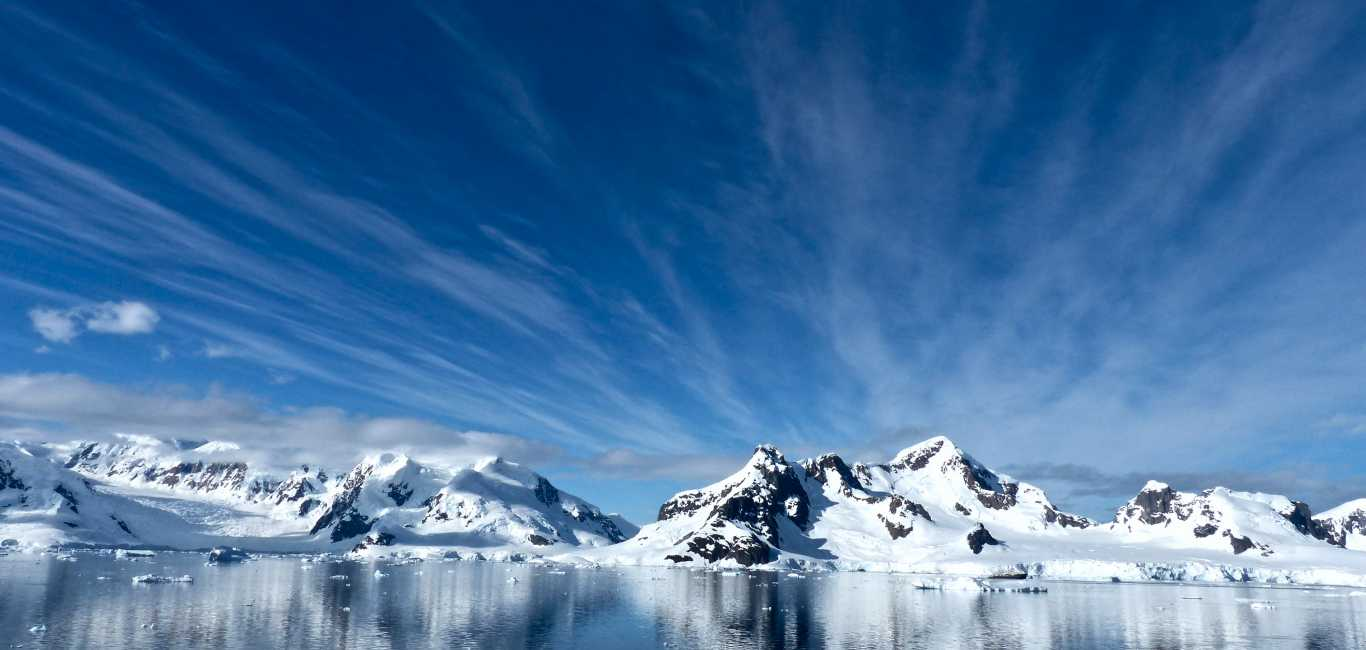
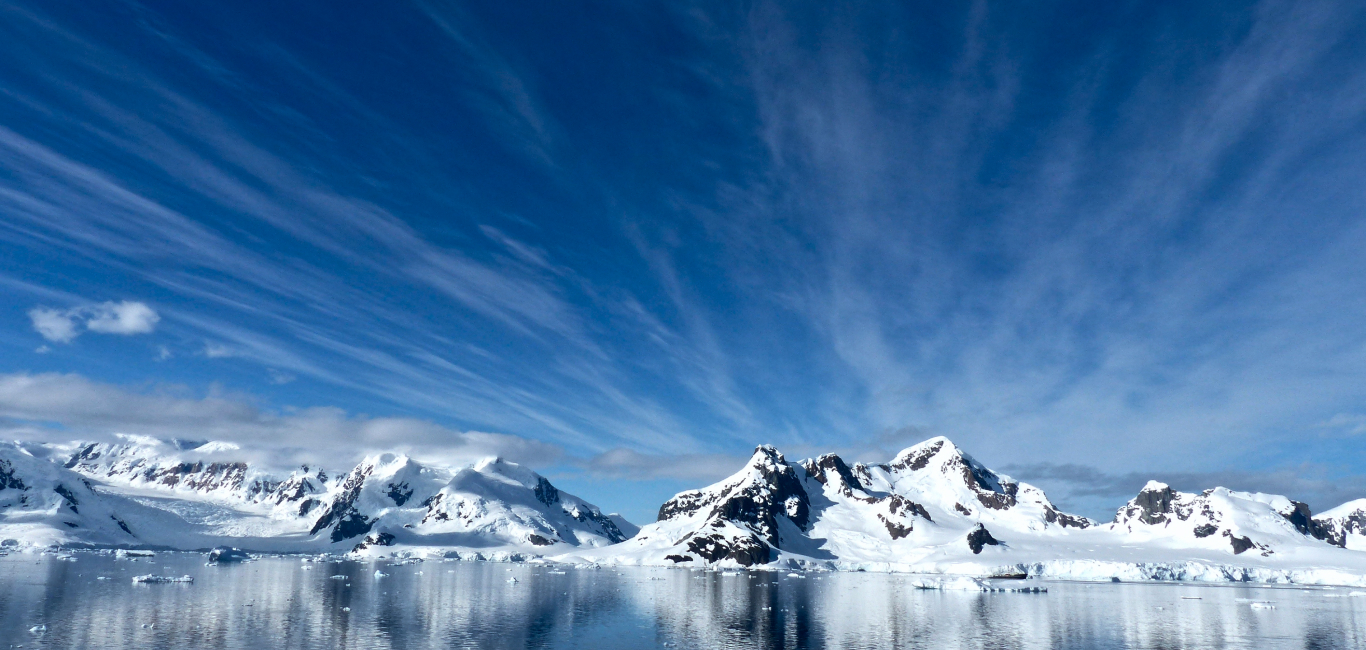
Поправил картинку в баннере

diff --git a/css/style.min.css b/css/style.min.css
@@ -1,4 +1,4 @@
 @font-face{font-family:"Montserrat";font-style:normal;font-weight:400;src:url(../fonts/montserrat-regular.woff2) format("woff2"),url(../fonts/montserrat-regular.woff) format("woff");font-display:swap}@font-face{font-family:"Montserrat";font-style:normal;font-weight:500;src:url(../fonts/montserrat-500.woff2) format("woff2"),url(../fonts/montserrat-500.woff) format("woff");font-display:swap}@font-face{font-family:"Montserrat";font-style:normal;font-weight:600;src:url(../fonts/montserrat-600.woff2) format("woff2"),url(../fonts/montserrat-600.woff) format("woff");font-display:swap}@font-face{font-family:"Montserrat";font-style:normal;font-weight:700;src:url(../fonts/montserrat-700.woff2) format("woff2"),url(../fonts/montserrat-700.woff) format("woff");font-display:swap}
 /*! normalize.css v8.0.1 | MIT License | github.com/necolas/normalize.css */
-html{line-height:1.15;-webkit-text-size-adjust:100%}body{margin:0}details,main{display:block}h1{font-size:2em;margin:.67em 0}hr{-webkit-box-sizing:content-box;box-sizing:content-box;height:0;overflow:visible}code,kbd,pre,samp{font-family:monospace,monospace;font-size:1em}a{background-color:transparent}abbr[title]{border-bottom:none;-webkit-text-decoration:underline dotted;text-decoration:underline dotted}b,strong{font-weight:bolder}small{font-size:80%}sub,sup{font-size:75%;line-height:0;position:relative;vertical-align:baseline}sub{bottom:-.25em}sup{top:-.5em}img{border-style:none}button,input,optgroup,select,textarea{font-family:inherit;font-size:100%;line-height:1.15;margin:0}button,input{overflow:visible}button,select{text-transform:none}[type=button],[type=reset],[type=submit],button{-webkit-appearance:button}[type=button]::-moz-focus-inner,[type=reset]::-moz-focus-inner,[type=submit]::-moz-focus-inner,button::-moz-focus-inner{border-style:none;padding:0}[type=button]:-moz-focusring,[type=reset]:-moz-focusring,[type=submit]:-moz-focusring,button:-moz-focusring{outline:1px dotted ButtonText}fieldset{padding:.35em .75em .625em}legend{color:inherit;display:table;max-width:100%;white-space:normal}progress{vertical-align:baseline}textarea{overflow:auto}[type=checkbox],[type=radio],legend{-webkit-box-sizing:border-box;box-sizing:border-box;padding:0}[type=number]::-webkit-inner-spin-button,[type=number]::-webkit-outer-spin-button{height:auto}[type=search]{-webkit-appearance:textfield;outline-offset:-2px}[type=search]::-webkit-search-decoration{-webkit-appearance:none}::-webkit-file-upload-button{-webkit-appearance:button;font:inherit}summary{display:list-item}[hidden],template{display:none}*,::after,::before{-webkit-box-sizing:border-box;box-sizing:border-box}.logo{display:block;height:38px;width:70px}.logo:not(.active-link):hover{-webkit-transform:scale(1.2);transform:scale(1.2);-webkit-transform-origin:bottom left;transform-origin:bottom left}@media screen and (max-width:1023px){.logo{height:20px;width:38px}}@media screen and (max-width:767px){.logo{height:22px;width:42px}}.link{color:inherit;text-decoration:none}.link:not(.active-link):hover{cursor:pointer}.link:not(.active-link):focus,.link:not(.active-link):hover{text-decoration:underline}.focus:focus,.focus:hover{background-color:#f0e5a9}.sprite{position:relative}.sprite__svg{display:none}.footer__social-link a,.sprite__svg--lg{display:block}@media screen and (max-width:1023px){.sprite__svg{display:none}.sprite__svg--md{display:block}}@media screen and (max-width:767px){.sprite__svg{display:none}.sprite__svg--sm{display:block}}.sprite img{position:absolute;top:0}.container{max-width:100%;padding:0 7.5%;width:100%}@media screen and (max-width:1023px){.container{padding:0 45px}}@media screen and (max-width:767px){.container{padding:0 15px}}.cards{display:-webkit-box;display:-ms-flexbox;display:flex;-ms-flex-wrap:wrap;flex-wrap:wrap;-webkit-box-pack:center;-ms-flex-pack:center;justify-content:center;list-style:none;margin:0 -15px;padding:0}.cards__item{margin:0 15px 30px}.picture-container{background-color:#195288}.visually-hidden{border:0;clip:rect(0 0 0 0);clip:rect(0,0,0,0);height:1px;margin:-1px;overflow:hidden;padding:0;position:absolute;width:1px}.body{background-color:#f9fbfd;color:#011c40;display:-webkit-box;display:-ms-flexbox;display:flex;-webkit-box-orient:vertical;-webkit-box-direction:normal;-ms-flex-direction:column;flex-direction:column;font-family:"Montserrat",Arial,"Helvetica CY","Nimbus Sans L",sans-serif;height:100vh;min-width:320px}.body>*{-ms-flex-negative:0;flex-shrink:0}.section{margin-top:120px}.section h2{font-size:28px;font-weight:600;line-height:1.4;margin:-8px 0 50px;text-align:center}.section h3{font-size:18px;font-weight:500}@media screen and (max-width:1023px){.section{margin-top:100px}.section h2{font-size:26px}}@media screen and (max-width:767px){.section{margin-top:65px}.section h2{font-size:24px;margin-bottom:32px}}.header{-webkit-box-align:start;-ms-flex-align:start;align-items:flex-start;color:#f9fbfd;display:-webkit-box;display:-ms-flexbox;display:flex;left:0;padding-top:35px;position:absolute;top:0;width:100%;z-index:2}.header__logo{margin-right:auto}.header svg{fill:#f9fbfd}.header__links,.header__nav{margin:0;padding:0}.header__links{display:-webkit-box;display:-ms-flexbox;display:flex;-ms-flex-wrap:wrap;flex-wrap:wrap;font-size:16px;font-weight:500;-webkit-box-pack:center;-ms-flex-pack:center;justify-content:center;line-height:38px;list-style:none}.header__link{margin-left:33px}.header__button{background-color:transparent;border:0;cursor:pointer;display:none;padding:0}.header__button:hover{-webkit-transform:scale(1.2);transform:scale(1.2)}.header__button--open{height:14px;width:26px}.header__button--close{height:13px;width:13px}@media screen and (max-width:1023px){.header{padding-top:30px}.header__links{font-size:14px;line-height:20px}.header__link{margin-left:24px}}@media screen and (max-width:767px){.header{-webkit-box-align:center;-ms-flex-align:center;align-items:center;-ms-flex-wrap:wrap;flex-wrap:wrap;padding-top:20px}.header--no-js{position:static}.header--menu-visible{background-color:#f9fbfd;color:#011c40}.header__nav{display:none;margin-top:24px;min-width:100%;-webkit-box-ordinal-group:3;-ms-flex-order:2;order:2;padding-bottom:61px}.header--menu-visible .header__button--close,.header--menu-visible .header__nav,.header__button--open,.header__links{display:block}.header__links{font-size:18px}.header__link{margin:23px 0 0}.header--menu-visible svg{fill:#011c40}.header--menu-visible .header__button--open,.header--no-js .header__button{display:none}}.footer{-webkit-box-align:start;-ms-flex-align:start;align-items:flex-start;background-color:#011c40;color:#f9fbfd;display:-webkit-box;display:-ms-flexbox;display:flex;margin-top:auto;padding-bottom:50px;padding-top:50px}@media screen and (max-width:767px){.footer{display:block;padding-bottom:40px;padding-top:40px}}.footer svg{fill:#f9fbfd}.footer__links,.footer__social-links{-webkit-box-align:center;-ms-flex-align:center;align-items:center;display:-webkit-box;display:-ms-flexbox;display:flex;list-style:none;padding:0}.footer__social-links{margin:8px 0 0}.footer__links{-ms-flex-wrap:wrap;flex-wrap:wrap;font-size:16px;font-weight:500;line-height:1.5;margin:8px auto 0 7px}.footer__link,.footer__social-link{margin-left:33px}.footer__social-link{height:20px;width:20px}.footer__social-link--fb{width:11px}.footer__social-link--tw{height:16px}@media screen and (max-width:1023px){.footer__social-link{height:16px;width:16px}.footer__social-link--fb{width:9px}.footer__social-link--tw{height:13px}}.footer__social-link a:hover{-webkit-transform:scale(1.4);transform:scale(1.4)}@media screen and (max-width:1023px){.footer__links,.footer__social-links{margin-top:1px}.footer__links{font-size:12px;margin-left:2px}.footer__link,.footer__social-link{margin-left:23px}}@media screen and (max-width:767px){.footer__links{display:block;margin:26px 0 0}.footer__link{margin:14px 0 0}.footer__social-links{margin-top:25px}.footer__social-link{margin:0 23px 0 0}}.cruises{color:#f9fbfd;padding:283px 0;position:relative}@media screen and (max-width:767px){.cruises{padding:185px 0}}.cruises h1,.cruises p{margin:0 auto;max-width:1000px;width:84%}@media screen and (max-width:1023px){.cruises h1,.cruises p{min-width:678px}}@media screen and (max-width:767px){.cruises h1,.cruises p{min-width:290px}}.cruises h1{font-size:54px;font-weight:700;line-height:1.25;margin-top:-12px}@media screen and (max-width:1023px){.cruises h1{font-size:50px;margin-top:-15px}}@media screen and (max-width:767px){.cruises h1{font-size:36px;margin-top:-10px}}.cruises p{font-size:20px;line-height:1.4;margin-bottom:-7px;margin-top:8px}@media screen and (max-width:1023px){.cruises p{font-size:18px;margin-top:10px;margin-bottom:-10px}}@media screen and (max-width:767px){.cruises p{font-size:16px;margin-top:12px;margin-bottom:-6px;padding-right:20%;width:80%}}.cruises__image-container{height:100%;left:0;position:absolute;top:0;width:100%;overflow:hidden;z-index:-1}.cruises__image-container picture{height:100%;width:100%}.cruises__image-container img,.cruises__image-container source{top:75%;left:50%;height:auto;min-height:100%;min-width:100%;position:absolute;-webkit-transform:translate(-50%,-75%);transform:translate(-50%,-75%)}@media screen and (max-width:1023px){.cruises__image-container img,.cruises__image-container source{top:40%;-webkit-transform:translate(-50%,-40%);transform:translate(-50%,-40%)}}.trip{-webkit-box-align:center;-ms-flex-align:center;align-items:center;display:-webkit-box;display:-ms-flexbox;display:flex}.trip__description{-ms-flex-preferred-size:45%;flex-basis:45%;margin-right:6.8%;-ms-flex-negative:0;flex-shrink:0}.trip__description h2{text-align:left;margin-top:15px;margin-bottom:25px}.trip__description p{font-size:16px;line-height:1.5}.trip picture{display:block;-webkit-box-flex:1;-ms-flex-positive:1;flex-grow:1;min-width:301px}.trip img{display:block;height:auto;width:100%}@media screen and (max-width:1023px){.trip picture,.trip__description{-ms-flex-preferred-size:47%;flex-basis:47%;-webkit-box-flex:1;-ms-flex-positive:1;flex-grow:1;min-width:324px}.trip__description{margin-right:4.5%}.trip__description h2{margin-bottom:10px;margin-top:-10px;width:65%}.trip__description p{margin-bottom:-10px}}@media screen and (max-width:767px){.trip{display:block}.trip picture,.trip__description{min-width:100%}.trip__description{margin-right:0}.trip__description h2{margin-bottom:10px;margin-top:-7px;width:70%}.trip__description p{margin-bottom:33px}}.advantages{padding-bottom:90px;padding-top:120px;position:relative}.advantages::after,.advantages::before{content:"";display:block;height:100%;left:0;position:absolute;top:0;width:100%;z-index:-1}.advantages::before,.trip picture{background-color:#e3ecf6}.advantages::after{background-image:url(../img/adv/adv-bg@1x--lg.jpg);background-position:center;background-repeat:no-repeat;background-size:cover;opacity:.1}@media (-webkit-min-device-pixel-ratio:1.5),(min-resolution:144dpi),(min-resolution:1.5dppx){.advantages::after{background-image:url(../img/adv/adv-bg@2x--lg.jpg)}}.advantages__card,.advantages__icon-container{display:-webkit-box;display:-ms-flexbox;display:flex}.advantages__card{background-color:#f9fbfd;-ms-flex-preferred-size:360px;flex-basis:360px;-webkit-box-orient:vertical;-webkit-box-direction:normal;-ms-flex-direction:column;flex-direction:column;max-width:360px;min-width:360px;padding:30px}.advantages__card h3{margin-bottom:13px;margin-top:22px}.advantages__card p{font-size:14px;line-height:20px;margin:0 0 -6px}.advantages__icon-container{-webkit-box-align:center;-ms-flex-align:center;align-items:center;-webkit-box-ordinal-group:0;-ms-flex-order:-1;order:-1;height:32px}@media screen and (max-width:1023px){.advantages{padding-bottom:70px;padding-top:100px}.advantages::after{background-image:url(../img/adv/adv-bg@1x--md.jpg)}}@media screen and (max-width:1023px) and (-webkit-min-device-pixel-ratio:1.5),screen and (max-width:1023px) and (min-resolution:144dpi),screen and (max-width:1023px) and (min-resolution:1.5dppx){.advantages::after{background-image:url(../img/adv/adv-bg@2x--md.jpg)}}@media screen and (max-width:1023px){.advantages__card{-ms-flex-preferred-size:206px;flex-basis:206px;max-width:206px;min-width:206px;padding:25px 15px 25px 20px}.advantages__card h3{line-height:1.4;margin-bottom:9px;margin-top:21px}.advantages__card p{margin:0 0 -6px}.advantages__icon-container{height:26px}}@media screen and (max-width:767px){.advantages{padding-bottom:35px;padding-top:65px}.advantages::after{background-image:url(../img/adv/adv-bg@1x--sm.jpg)}}@media screen and (max-width:767px) and (-webkit-min-device-pixel-ratio:1.5),screen and (max-width:767px) and (min-resolution:144dpi),screen and (max-width:767px) and (min-resolution:1.5dppx){.advantages::after{background-image:url(../img/adv/adv-bg@2x--sm.jpg)}}@media screen and (max-width:767px){.advantages__card{-ms-flex-preferred-size:100%;flex-basis:100%;max-width:400px;min-width:290px;padding:25px 20px}.advantages__card h3{line-height:1.4;margin-bottom:9px;margin-top:21px;width:70%}.advantages__card p{margin:0 0 -6px}.advantages__icon-container{height:26px}}.catalog__cards{margin-bottom:-30px}.catalog__card{color:#f9fbfd;display:-webkit-box;display:-ms-flexbox;display:flex;-webkit-box-orient:vertical;-webkit-box-direction:normal;-ms-flex-direction:column;flex-direction:column;max-width:309px;min-height:386px;min-width:260px;overflow:hidden;padding:32px 25px 27px;position:relative;width:20%}.catalog__card:hover{background-color:#011c40}.catalog__card:focus-within{background-color:#011c40}.catalog__card::after{background-color:#195288;content:"";display:block;height:100%;left:0;position:absolute;top:0;width:100%;z-index:-5}.catalog__card h3{margin:0 5px;-webkit-box-ordinal-group:3;-ms-flex-order:2;order:2}.catalog__card:hover h3{margin:0;-webkit-box-ordinal-group:1;-ms-flex-order:0;order:0}.catalog__card:focus-within h3{margin:0;-webkit-box-ordinal-group:1;-ms-flex-order:0;order:0}.catalog__info{display:-webkit-box;display:-ms-flexbox;display:flex;-webkit-box-orient:vertical;-webkit-box-direction:normal;-ms-flex-direction:column;flex-direction:column;-webkit-box-flex:1;-ms-flex-positive:1;flex-grow:1;margin-bottom:8px;opacity:0}.catalog__card:hover .catalog__info{opacity:1}.catalog__card:focus-within .catalog__info{opacity:1}.catalog__info dd,.catalog__info dl{font-size:14px;line-height:1.4;padding:0}.catalog__info dl{margin:20px 0 0}.catalog__info dt{font-weight:500}.catalog__info dd{margin:0 0 14px}.catalog__book{background-color:#f9fbfd;color:#011c40;font-size:14px;font-weight:600;display:block;line-height:40px;margin-top:auto;text-align:center;text-decoration:none}.catalog__card picture{display:block;height:100%;left:0;position:absolute;top:0;width:100%;z-index:-1}.catalog__card img{display:block;left:50%;min-height:104%;min-width:104%;top:50%;-webkit-transform:translate(-50%,-50%);transform:translate(-50%,-50%);position:absolute}@media screen and (max-width:1023px){.catalog__card{padding:32px 35px;width:100%}.catalog__card h3{margin:0}.catalog__info{margin-bottom:3px}}@media screen and (max-width:767px){.catalog__cards{margin-left:-5px;margin-right:-5px}.catalog__card{padding:32px 25px 22px}.catalog__info{margin-bottom:13px}.catalog__info dl{margin-top:18px}.catalog__info dt{margin-bottom:1px}}.booking{background-color:#e3ecf6;background-image:url(../img/book/book-bg@1x--lg.jpg);background-position:bottom 0;background-repeat:no-repeat;background-size:cover;-webkit-box-align:center;-ms-flex-align:center;align-items:center;display:-webkit-box;display:-ms-flexbox;display:flex;-webkit-box-pack:center;-ms-flex-pack:center;justify-content:center;padding-bottom:50px;padding-top:50px}@media (-webkit-min-device-pixel-ratio:1.5),(min-resolution:144dpi),(min-resolution:1.5dppx){.booking{background-image:url(../img/book/book-bg@2x--lg.jpg)}}.booking__info{margin-right:144px;line-height:1.5}.booking__info h2{font-size:40px;font-weight:700;margin-bottom:12px;text-align:left}.booking__info p{font-size:18px;margin:0;width:350px}.booking__form{background-color:#011c40;color:#f9fbfd;font-size:14px;line-height:1.5;padding:50px;width:406px}.booking__form p{font-size:18px;font-weight:500;margin:-6px 0 27px}.booking__form button,.booking__input{background-color:#f9fbfd;border:0;color:#011c40;height:43px;line-height:43px;padding:0 16px;width:100%}.booking__input{margin-bottom:20px}.booking__form button{font-weight:600}.booking__checkbox-label{-webkit-box-align:center;-ms-flex-align:center;align-items:center;cursor:pointer;display:-webkit-box;display:-ms-flexbox;display:flex;font-size:10px;line-height:1.3;margin-bottom:30px}.booking__checkbox{height:18px;margin:0 5px 0 0;min-width:18px;width:18px}.booking__checkbox--real{position:absolute;opacity:0}.booking__checkbox--decoy{background-color:#f9fbfd;height:18px;position:relative;width:18px}.booking__checkbox--real:focus+.booking__checkbox--decoy,.booking__checkbox-label:hover .booking__checkbox--decoy{background-color:#f0e5a9}.booking__checkbox--real:checked+.booking__checkbox--decoy::after{border-bottom:1px #011c40 solid;border-left:1px #011c40 solid;bottom:5px;content:"";display:block;height:7px;left:8px;position:absolute;-webkit-transform:rotate(-45deg);transform:rotate(-45deg);-webkit-transform-origin:bottom left;transform-origin:bottom left;width:9px}@media screen and (max-width:1023px){.booking{background-image:url(../img/book/book-bg@1x--md.jpg);background-position:center;-webkit-box-orient:vertical;-webkit-box-direction:normal;-ms-flex-direction:column;flex-direction:column;padding-bottom:100px;padding-top:100px}}@media screen and (max-width:1023px) and (-webkit-min-device-pixel-ratio:1.5),screen and (max-width:1023px) and (min-resolution:144dpi),screen and (max-width:1023px) and (min-resolution:1.5dppx){.booking{background-image:url(../img/book/book-bg@2x--md.jpg)}}@media screen and (max-width:1023px){.booking__info{margin:0;max-width:100%}.booking__info h2{font-size:34px;margin-top:-10px;margin-bottom:7px}.booking__info p{margin:0 auto 52px;text-align:center;width:345px}}@media screen and (max-width:767px){.booking{background-image:url(../img/book/book-bg@1x--sm.jpg);background-position:right 15%;padding-bottom:65px;padding-top:65px}}@media screen and (max-width:767px) and (-webkit-min-device-pixel-ratio:1.5),screen and (max-width:767px) and (min-resolution:144dpi),screen and (max-width:767px) and (min-resolution:1.5dppx){.booking{background-image:url(../img/book/book-bg@2x--sm.jpg)}}@media screen and (max-width:767px){.booking__info h2{font-size:24px;line-height:1.3;margin:-5px auto 14px;text-align:center}.booking__info p{font-size:16px;line-height:1.4;margin-bottom:34px;max-width:345px;width:95%}.booking__form{max-width:406px;padding:40px 30px;width:100%}.booking__form p{font-size:18px;line-height:1.4;margin-bottom:28px;margin-top:-5px;text-align:center}.booking__checkbox-label{margin-top:-2px}.booking__checkbox{height:20px;margin-right:7px;margin-top:-5px;min-width:20px;width:20px}.booking__form button{margin-top:-4px}}.contacts{-webkit-box-align:center;-ms-flex-align:center;align-items:center;display:-webkit-box;display:-ms-flexbox;display:flex;-webkit-box-pack:center;-ms-flex-pack:center;justify-content:center;line-height:1.5;margin-bottom:120px}.contacts__info{max-width:500px}.contacts__info,.contacts__map-container{-ms-flex-preferred-size:500px;flex-basis:500px;min-width:auto}.contacts__map-container--interactive{width:48%;min-width:48%}.contacts__info dl,.contacts__info p{margin:0}.contacts__info p{font-size:18px;font-weight:500}.contacts dl{font-size:16px;margin-top:35px;position:relative}.contacts dt{height:0;margin-top:24px}.contacts dd{margin-left:0;margin-top:-3px}.contacts__value{display:-webkit-box;display:-ms-flexbox;display:flex}.contacts__icon{-ms-flex-negative:0;flex-shrink:0;height:22px;margin-right:10px}.contacts__map-container{-webkit-box-flex:1;-ms-flex-positive:1;flex-grow:1;margin-right:100px;max-width:560px;-webkit-box-ordinal-group:0;-ms-flex-order:-1;order:-1}.contacts__map{background-color:#dbd7bc}.contacts__map--image,.contacts__map--image img,.contacts__map--image picture{max-width:100%;height:auto;width:100%}.contacts__map--image{min-height:50px;position:relative}.contacts__map--image img,.contacts__map--image picture{display:block}.contacts__map-button{background-color:#f9fbfd;border:1px solid #011c40;bottom:0;font-size:10px;left:0;line-height:1.5;position:absolute}.contacts__map-container--no-js .contacts__map-button{display:none}.contacts__map--yandex{display:none;height:306px;width:100%}.contacts__map-container--interactive .contacts__map--yandex{display:block}.contacts__map-container--interactive .contacts__map--image{display:none}@media screen and (max-width:1023px){.contacts{margin-bottom:100px}.contacts dl{margin-top:29px}.contacts__icon--location{margin-top:4px}.contacts__map-container{margin-right:30px}.contacts__map--yandex{height:335px}}@media screen and (max-width:767px){.contacts{display:block;margin-top:57px;margin-bottom:65px}.contacts__info{margin:0 auto}.contacts dl{margin-top:32px}.contacts__map-container{margin:35px auto 0;max-width:500px;width:100%}.contacts__map--image{margin:auto;max-width:290px}.contacts__map--yandex{height:316px}}
+html{line-height:1.15;-webkit-text-size-adjust:100%}body{margin:0}details,main{display:block}h1{font-size:2em;margin:.67em 0}hr{-webkit-box-sizing:content-box;box-sizing:content-box;height:0;overflow:visible}code,kbd,pre,samp{font-family:monospace,monospace;font-size:1em}a{background-color:transparent}abbr[title]{border-bottom:none;-webkit-text-decoration:underline dotted;text-decoration:underline dotted}b,strong{font-weight:bolder}small{font-size:80%}sub,sup{font-size:75%;line-height:0;position:relative;vertical-align:baseline}sub{bottom:-.25em}sup{top:-.5em}img{border-style:none}button,input,optgroup,select,textarea{font-family:inherit;font-size:100%;line-height:1.15;margin:0}button,input{overflow:visible}button,select{text-transform:none}[type=button],[type=reset],[type=submit],button{-webkit-appearance:button}[type=button]::-moz-focus-inner,[type=reset]::-moz-focus-inner,[type=submit]::-moz-focus-inner,button::-moz-focus-inner{border-style:none;padding:0}[type=button]:-moz-focusring,[type=reset]:-moz-focusring,[type=submit]:-moz-focusring,button:-moz-focusring{outline:1px dotted ButtonText}fieldset{padding:.35em .75em .625em}legend{color:inherit;display:table;max-width:100%;white-space:normal}progress{vertical-align:baseline}textarea{overflow:auto}[type=checkbox],[type=radio],legend{-webkit-box-sizing:border-box;box-sizing:border-box;padding:0}[type=number]::-webkit-inner-spin-button,[type=number]::-webkit-outer-spin-button{height:auto}[type=search]{-webkit-appearance:textfield;outline-offset:-2px}[type=search]::-webkit-search-decoration{-webkit-appearance:none}::-webkit-file-upload-button{-webkit-appearance:button;font:inherit}summary{display:list-item}[hidden],template{display:none}*,::after,::before{-webkit-box-sizing:border-box;box-sizing:border-box}.logo{display:block;height:38px;width:70px}.logo:not(.active-link):hover{-webkit-transform:scale(1.2);transform:scale(1.2);-webkit-transform-origin:bottom left;transform-origin:bottom left}@media screen and (max-width:1023px){.logo{height:20px;width:38px}}@media screen and (max-width:767px){.logo{height:22px;width:42px}}.link{color:inherit;text-decoration:none}.link:not(.active-link):hover{cursor:pointer}.link:not(.active-link):focus,.link:not(.active-link):hover{text-decoration:underline}.focus:focus,.focus:hover{background-color:#f0e5a9}.sprite{position:relative}.sprite__svg{display:none}.footer__social-link a,.sprite__svg--lg{display:block}@media screen and (max-width:1023px){.sprite__svg{display:none}.sprite__svg--md{display:block}}@media screen and (max-width:767px){.sprite__svg{display:none}.sprite__svg--sm{display:block}}.sprite img{position:absolute;top:0}.container{max-width:100%;padding:0 7.5%;width:100%}@media screen and (max-width:1023px){.container{padding:0 45px}}@media screen and (max-width:767px){.container{padding:0 15px}}.cards{display:-webkit-box;display:-ms-flexbox;display:flex;-ms-flex-wrap:wrap;flex-wrap:wrap;-webkit-box-pack:center;-ms-flex-pack:center;justify-content:center;list-style:none;margin:0 -15px;padding:0}.cards__item{margin:0 15px 30px}.picture-container{background-color:#195288}.visually-hidden{border:0;clip:rect(0 0 0 0);clip:rect(0,0,0,0);height:1px;margin:-1px;overflow:hidden;padding:0;position:absolute;width:1px}.body{background-color:#f9fbfd;color:#011c40;display:-webkit-box;display:-ms-flexbox;display:flex;-webkit-box-orient:vertical;-webkit-box-direction:normal;-ms-flex-direction:column;flex-direction:column;font-family:"Montserrat",Arial,"Helvetica CY","Nimbus Sans L",sans-serif;height:100vh;min-width:320px}.body>*{-ms-flex-negative:0;flex-shrink:0}.section{margin-top:120px}.section h2{font-size:28px;font-weight:600;line-height:1.4;margin:-8px 0 50px;text-align:center}.section h3{font-size:18px;font-weight:500}@media screen and (max-width:1023px){.section{margin-top:100px}.section h2{font-size:26px}}@media screen and (max-width:767px){.section{margin-top:65px}.section h2{font-size:24px;margin-bottom:32px}}.header{-webkit-box-align:start;-ms-flex-align:start;align-items:flex-start;color:#f9fbfd;display:-webkit-box;display:-ms-flexbox;display:flex;left:0;padding-top:35px;position:absolute;top:0;width:100%;z-index:2}.header__logo{margin-right:auto}.header svg{fill:#f9fbfd}.header__links,.header__nav{margin:0;padding:0}.header__links{display:-webkit-box;display:-ms-flexbox;display:flex;-ms-flex-wrap:wrap;flex-wrap:wrap;font-size:16px;font-weight:500;-webkit-box-pack:center;-ms-flex-pack:center;justify-content:center;line-height:38px;list-style:none}.header__link{margin-left:33px}.header__button{background-color:transparent;border:0;cursor:pointer;display:none;padding:0}.header__button:hover{-webkit-transform:scale(1.2);transform:scale(1.2)}.header__button--open{height:14px;width:26px}.header__button--close{height:13px;width:13px}@media screen and (max-width:1023px){.header{padding-top:30px}.header__links{font-size:14px;line-height:20px}.header__link{margin-left:24px}}@media screen and (max-width:767px){.header{-webkit-box-align:center;-ms-flex-align:center;align-items:center;-ms-flex-wrap:wrap;flex-wrap:wrap;padding-top:20px}.header--no-js{position:static}.header--menu-visible{background-color:#f9fbfd;color:#011c40}.header__nav{display:none;margin-top:24px;min-width:100%;-webkit-box-ordinal-group:3;-ms-flex-order:2;order:2;padding-bottom:61px}.header--menu-visible .header__button--close,.header--menu-visible .header__nav,.header__button--open,.header__links{display:block}.header__links{font-size:18px}.header__link{margin:23px 0 0}.header--menu-visible svg{fill:#011c40}.header--menu-visible .header__button--open,.header--no-js .header__button{display:none}}.footer{-webkit-box-align:start;-ms-flex-align:start;align-items:flex-start;background-color:#011c40;color:#f9fbfd;display:-webkit-box;display:-ms-flexbox;display:flex;margin-top:auto;padding-bottom:50px;padding-top:50px}@media screen and (max-width:767px){.footer{display:block;padding-bottom:40px;padding-top:40px}}.footer svg{fill:#f9fbfd}.footer__links,.footer__social-links{-webkit-box-align:center;-ms-flex-align:center;align-items:center;display:-webkit-box;display:-ms-flexbox;display:flex;list-style:none;padding:0}.footer__social-links{margin:8px 0 0}.footer__links{-ms-flex-wrap:wrap;flex-wrap:wrap;font-size:16px;font-weight:500;line-height:1.5;margin:8px auto 0 7px}.footer__link,.footer__social-link{margin-left:33px}.footer__social-link{height:20px;width:20px}.footer__social-link--fb{width:11px}.footer__social-link--tw{height:16px}@media screen and (max-width:1023px){.footer__social-link{height:16px;width:16px}.footer__social-link--fb{width:9px}.footer__social-link--tw{height:13px}}.footer__social-link a:hover{-webkit-transform:scale(1.4);transform:scale(1.4)}@media screen and (max-width:1023px){.footer__links,.footer__social-links{margin-top:1px}.footer__links{font-size:12px;margin-left:2px}.footer__link,.footer__social-link{margin-left:23px}}@media screen and (max-width:767px){.footer__links{display:block;margin:26px 0 0}.footer__link{margin:14px 0 0}.footer__social-links{margin-top:25px}.footer__social-link{margin:0 23px 0 0}}.cruises{color:#f9fbfd;padding:283px 0;position:relative}@media screen and (max-width:767px){.cruises{padding:185px 0}}.cruises h1,.cruises p{margin:0 auto;max-width:1000px;width:84%}@media screen and (max-width:1023px){.cruises h1,.cruises p{min-width:678px}}@media screen and (max-width:767px){.cruises h1,.cruises p{min-width:290px}}.cruises h1{font-size:54px;font-weight:700;line-height:1.25;margin-top:-12px}@media screen and (max-width:1023px){.cruises h1{font-size:50px;margin-top:-15px}}@media screen and (max-width:767px){.cruises h1{font-size:36px;margin-top:-10px}}.cruises p{font-size:20px;line-height:1.4;margin-bottom:-7px;margin-top:8px}@media screen and (max-width:1023px){.cruises p{font-size:18px;margin-top:10px;margin-bottom:-10px}}@media screen and (max-width:767px){.cruises p{font-size:16px;margin-top:12px;margin-bottom:-6px;padding-right:20%;width:80%}}.cruises__image-container{height:100%;left:0;position:absolute;top:0;width:100%;overflow:hidden;z-index:-1}.cruises__image-container picture{height:100%;width:100%}.cruises__image-container img,.cruises__image-container source{top:75%;left:50%;height:auto;min-height:100%;min-width:100%;position:absolute;-webkit-transform:translate(-50%,-75%);transform:translate(-50%,-75%);width:auto}@media screen and (max-width:1023px){.cruises__image-container img,.cruises__image-container source{top:0;-webkit-transform:translate(-50%,0);transform:translate(-50%,0)}}.trip{-webkit-box-align:center;-ms-flex-align:center;align-items:center;display:-webkit-box;display:-ms-flexbox;display:flex}.trip__description{-ms-flex-preferred-size:45%;flex-basis:45%;margin-right:6.8%;-ms-flex-negative:0;flex-shrink:0}.trip__description h2{text-align:left;margin-top:15px;margin-bottom:25px}.trip__description p{font-size:16px;line-height:1.5}.trip picture{display:block;-webkit-box-flex:1;-ms-flex-positive:1;flex-grow:1;min-width:301px}.trip img{display:block;height:auto;width:100%}@media screen and (max-width:1023px){.trip picture,.trip__description{-ms-flex-preferred-size:47%;flex-basis:47%;-webkit-box-flex:1;-ms-flex-positive:1;flex-grow:1;min-width:324px}.trip__description{margin-right:4.5%}.trip__description h2{margin-bottom:10px;margin-top:-10px;width:65%}.trip__description p{margin-bottom:-10px}}@media screen and (max-width:767px){.trip{display:block}.trip picture,.trip__description{min-width:100%}.trip__description{margin-right:0}.trip__description h2{margin-bottom:10px;margin-top:-7px;width:70%}.trip__description p{margin-bottom:33px}}.advantages{padding-bottom:90px;padding-top:120px;position:relative}.advantages::after,.advantages::before{content:"";display:block;height:100%;left:0;position:absolute;top:0;width:100%;z-index:-1}.advantages::before,.trip picture{background-color:#e3ecf6}.advantages::after{background-image:url(../img/adv/adv-bg@1x--lg.jpg);background-position:center;background-repeat:no-repeat;background-size:cover;opacity:.1}@media (-webkit-min-device-pixel-ratio:1.5),(min-resolution:144dpi),(min-resolution:1.5dppx){.advantages::after{background-image:url(../img/adv/adv-bg@2x--lg.jpg)}}.advantages__card,.advantages__icon-container{display:-webkit-box;display:-ms-flexbox;display:flex}.advantages__card{background-color:#f9fbfd;-ms-flex-preferred-size:360px;flex-basis:360px;-webkit-box-orient:vertical;-webkit-box-direction:normal;-ms-flex-direction:column;flex-direction:column;max-width:360px;min-width:360px;padding:30px}.advantages__card h3{margin-bottom:13px;margin-top:22px}.advantages__card p{font-size:14px;line-height:20px;margin:0 0 -6px}.advantages__icon-container{-webkit-box-align:center;-ms-flex-align:center;align-items:center;-webkit-box-ordinal-group:0;-ms-flex-order:-1;order:-1;height:32px}@media screen and (max-width:1023px){.advantages{padding-bottom:70px;padding-top:100px}.advantages::after{background-image:url(../img/adv/adv-bg@1x--md.jpg)}}@media screen and (max-width:1023px) and (-webkit-min-device-pixel-ratio:1.5),screen and (max-width:1023px) and (min-resolution:144dpi),screen and (max-width:1023px) and (min-resolution:1.5dppx){.advantages::after{background-image:url(../img/adv/adv-bg@2x--md.jpg)}}@media screen and (max-width:1023px){.advantages__card{-ms-flex-preferred-size:206px;flex-basis:206px;max-width:206px;min-width:206px;padding:25px 15px 25px 20px}.advantages__card h3{line-height:1.4;margin-bottom:9px;margin-top:21px}.advantages__card p{margin:0 0 -6px}.advantages__icon-container{height:26px}}@media screen and (max-width:767px){.advantages{padding-bottom:35px;padding-top:65px}.advantages::after{background-image:url(../img/adv/adv-bg@1x--sm.jpg)}}@media screen and (max-width:767px) and (-webkit-min-device-pixel-ratio:1.5),screen and (max-width:767px) and (min-resolution:144dpi),screen and (max-width:767px) and (min-resolution:1.5dppx){.advantages::after{background-image:url(../img/adv/adv-bg@2x--sm.jpg)}}@media screen and (max-width:767px){.advantages__card{-ms-flex-preferred-size:100%;flex-basis:100%;max-width:400px;min-width:290px;padding:25px 20px}.advantages__card h3{line-height:1.4;margin-bottom:9px;margin-top:21px;width:70%}.advantages__card p{margin:0 0 -6px}.advantages__icon-container{height:26px}}.catalog__cards{margin-bottom:-30px}.catalog__card{color:#f9fbfd;display:-webkit-box;display:-ms-flexbox;display:flex;-webkit-box-orient:vertical;-webkit-box-direction:normal;-ms-flex-direction:column;flex-direction:column;max-width:309px;min-height:386px;min-width:260px;overflow:hidden;padding:32px 25px 27px;position:relative;width:20%}.catalog__card:hover{background-color:#011c40}.catalog__card:focus-within{background-color:#011c40}.catalog__card::after{background-color:#195288;content:"";display:block;height:100%;left:0;position:absolute;top:0;width:100%;z-index:-5}.catalog__card h3{margin:0 5px;-webkit-box-ordinal-group:3;-ms-flex-order:2;order:2}.catalog__card:hover h3{margin:0;-webkit-box-ordinal-group:1;-ms-flex-order:0;order:0}.catalog__card:focus-within h3{margin:0;-webkit-box-ordinal-group:1;-ms-flex-order:0;order:0}.catalog__info{display:-webkit-box;display:-ms-flexbox;display:flex;-webkit-box-orient:vertical;-webkit-box-direction:normal;-ms-flex-direction:column;flex-direction:column;-webkit-box-flex:1;-ms-flex-positive:1;flex-grow:1;margin-bottom:8px;opacity:0}.catalog__card:hover .catalog__info{opacity:1}.catalog__card:focus-within .catalog__info{opacity:1}.catalog__info dd,.catalog__info dl{font-size:14px;line-height:1.4;padding:0}.catalog__info dl{margin:20px 0 0}.catalog__info dt{font-weight:500}.catalog__info dd{margin:0 0 14px}.catalog__book{background-color:#f9fbfd;color:#011c40;font-size:14px;font-weight:600;display:block;line-height:40px;margin-top:auto;text-align:center;text-decoration:none}.catalog__card picture{display:block;height:100%;left:0;position:absolute;top:0;width:100%;z-index:-1}.catalog__card img{display:block;left:50%;min-height:104%;min-width:104%;top:50%;-webkit-transform:translate(-50%,-50%);transform:translate(-50%,-50%);position:absolute}@media screen and (max-width:1023px){.catalog__card{padding:32px 35px;width:100%}.catalog__card h3{margin:0}.catalog__info{margin-bottom:3px}}@media screen and (max-width:767px){.catalog__cards{margin-left:-5px;margin-right:-5px}.catalog__card{padding:32px 25px 22px}.catalog__info{margin-bottom:13px}.catalog__info dl{margin-top:18px}.catalog__info dt{margin-bottom:1px}}.booking{background-color:#e3ecf6;background-image:url(../img/book/book-bg@1x--lg.jpg);background-position:bottom 0;background-repeat:no-repeat;background-size:cover;-webkit-box-align:center;-ms-flex-align:center;align-items:center;display:-webkit-box;display:-ms-flexbox;display:flex;-webkit-box-pack:center;-ms-flex-pack:center;justify-content:center;padding-bottom:50px;padding-top:50px}@media (-webkit-min-device-pixel-ratio:1.5),(min-resolution:144dpi),(min-resolution:1.5dppx){.booking{background-image:url(../img/book/book-bg@2x--lg.jpg)}}.booking__info{margin-right:144px;line-height:1.5}.booking__info h2{font-size:40px;font-weight:700;margin-bottom:12px;text-align:left}.booking__info p{font-size:18px;margin:0;width:350px}.booking__form{background-color:#011c40;color:#f9fbfd;font-size:14px;line-height:1.5;padding:50px;width:406px}.booking__form p{font-size:18px;font-weight:500;margin:-6px 0 27px}.booking__form button,.booking__input{background-color:#f9fbfd;border:0;color:#011c40;height:43px;line-height:43px;padding:0 16px;width:100%}.booking__input{margin-bottom:20px}.booking__form button{font-weight:600}.booking__checkbox-label{-webkit-box-align:center;-ms-flex-align:center;align-items:center;cursor:pointer;display:-webkit-box;display:-ms-flexbox;display:flex;font-size:10px;line-height:1.3;margin-bottom:30px}.booking__checkbox{height:18px;margin:0 5px 0 0;min-width:18px;width:18px}.booking__checkbox--real{position:absolute;opacity:0}.booking__checkbox--decoy{background-color:#f9fbfd;height:18px;position:relative;width:18px}.booking__checkbox--real:focus+.booking__checkbox--decoy,.booking__checkbox-label:hover .booking__checkbox--decoy{background-color:#f0e5a9}.booking__checkbox--real:checked+.booking__checkbox--decoy::after{border-bottom:1px #011c40 solid;border-left:1px #011c40 solid;bottom:5px;content:"";display:block;height:7px;left:8px;position:absolute;-webkit-transform:rotate(-45deg);transform:rotate(-45deg);-webkit-transform-origin:bottom left;transform-origin:bottom left;width:9px}@media screen and (max-width:1023px){.booking{background-image:url(../img/book/book-bg@1x--md.jpg);background-position:center;-webkit-box-orient:vertical;-webkit-box-direction:normal;-ms-flex-direction:column;flex-direction:column;padding-bottom:100px;padding-top:100px}}@media screen and (max-width:1023px) and (-webkit-min-device-pixel-ratio:1.5),screen and (max-width:1023px) and (min-resolution:144dpi),screen and (max-width:1023px) and (min-resolution:1.5dppx){.booking{background-image:url(../img/book/book-bg@2x--md.jpg)}}@media screen and (max-width:1023px){.booking__info{margin:0;max-width:100%}.booking__info h2{font-size:34px;margin-top:-10px;margin-bottom:7px}.booking__info p{margin:0 auto 52px;text-align:center;width:345px}}@media screen and (max-width:767px){.booking{background-image:url(../img/book/book-bg@1x--sm.jpg);background-position:right 15%;padding-bottom:65px;padding-top:65px}}@media screen and (max-width:767px) and (-webkit-min-device-pixel-ratio:1.5),screen and (max-width:767px) and (min-resolution:144dpi),screen and (max-width:767px) and (min-resolution:1.5dppx){.booking{background-image:url(../img/book/book-bg@2x--sm.jpg)}}@media screen and (max-width:767px){.booking__info h2{font-size:24px;line-height:1.3;margin:-5px auto 14px;text-align:center}.booking__info p{font-size:16px;line-height:1.4;margin-bottom:34px;max-width:345px;width:95%}.booking__form{max-width:406px;padding:40px 30px;width:100%}.booking__form p{font-size:18px;line-height:1.4;margin-bottom:28px;margin-top:-5px;text-align:center}.booking__checkbox-label{margin-top:-2px}.booking__checkbox{height:20px;margin-right:7px;margin-top:-5px;min-width:20px;width:20px}.booking__form button{margin-top:-4px}}.contacts{-webkit-box-align:center;-ms-flex-align:center;align-items:center;display:-webkit-box;display:-ms-flexbox;display:flex;-webkit-box-pack:center;-ms-flex-pack:center;justify-content:center;line-height:1.5;margin-bottom:120px}.contacts__info{max-width:500px}.contacts__info,.contacts__map-container{-ms-flex-preferred-size:500px;flex-basis:500px;min-width:auto}.contacts__map-container--interactive{width:48%;min-width:48%}.contacts__info dl,.contacts__info p{margin:0}.contacts__info p{font-size:18px;font-weight:500}.contacts dl{font-size:16px;margin-top:35px;position:relative}.contacts dt{height:0;margin-top:24px}.contacts dd{margin-left:0;margin-top:-3px}.contacts__value{display:-webkit-box;display:-ms-flexbox;display:flex}.contacts__icon{-ms-flex-negative:0;flex-shrink:0;height:22px;margin-right:10px}.contacts__map-container{-webkit-box-flex:1;-ms-flex-positive:1;flex-grow:1;margin-right:100px;max-width:560px;-webkit-box-ordinal-group:0;-ms-flex-order:-1;order:-1}.contacts__map{background-color:#dbd7bc}.contacts__map--image,.contacts__map--image img,.contacts__map--image picture{max-width:100%;height:auto;width:100%}.contacts__map--image{min-height:50px;position:relative}.contacts__map--image img,.contacts__map--image picture{display:block}.contacts__map-button{background-color:#f9fbfd;border:1px solid #011c40;bottom:0;font-size:10px;left:0;line-height:1.5;position:absolute}.contacts__map-container--no-js .contacts__map-button{display:none}.contacts__map--yandex{display:none;height:306px;width:100%}.contacts__map-container--interactive .contacts__map--yandex{display:block}.contacts__map-container--interactive .contacts__map--image{display:none}@media screen and (max-width:1023px){.contacts{margin-bottom:100px}.contacts dl{margin-top:29px}.contacts__icon--location{margin-top:4px}.contacts__map-container{margin-right:30px}.contacts__map--yandex{height:335px}}@media screen and (max-width:767px){.contacts{display:block;margin-top:57px;margin-bottom:65px}.contacts__info{margin:0 auto}.contacts dl{margin-top:32px}.contacts__map-container{margin:35px auto 0;max-width:500px;width:100%}.contacts__map--image{margin:auto;max-width:290px}.contacts__map--yandex{height:316px}}
 /*# sourceMappingURL=style.min.css.map */

diff --git a/index.html b/index.html
@@ -69,7 +69,12 @@
       </div>
       <div class="cruises__image-container picture-container">
         <picture>
-          <!-- 1х: 768px; 2x: 1536px -->
+          <!-- 1х: 699px; 2x: 1398px -->
+          <source type="image/webp" media="(max-width: 767px)" srcset="
+              img/cruises/main@1x--sm.webp,
+              img/cruises/main@2x--sm.webp 2x
+            ">
+          <!-- 1х: 850px; 2x: 1700px -->
           <source type="image/webp" media="(max-width: 1023px)" srcset="
               img/cruises/main@1x--md.webp,
               img/cruises/main@2x--md.webp 2x
@@ -79,7 +84,9 @@
               img/cruises/main@1x--lg.webp,
               img/cruises/main@2x--lg.webp 2x
             ">
-          <!-- 1х: 768px; 2x: 1536px -->
+          <!-- 1х: 699px; 2x: 1398px -->
+          <source media="(max-width: 767px)" srcset="img/cruises/main@1x--sm.jpg, img/cruises/main@2x--sm.jpg 2x">
+          <!-- 1х: 850px; 2x: 1700px -->
           <source media="(max-width: 1023px)" srcset="img/cruises/main@1x--md.jpg, img/cruises/main@2x--md.jpg 2x">
           <!-- 1х: 1366px; 2x: 2732px -->
           <img width="1366" height="650" src="img/cruises/main@1x--lg.jpg" srcset="img/cruises/main@2x--lg.jpg 2x" alt="Круиз в Антарктику">

diff --git a/css/style.css b/css/style.css
@@ -756,13 +756,14 @@ template {
   min-width: 100%;
   position: absolute;
   -webkit-transform: translate(-50%, -75%);
-          transform: translate(-50%, -75%); }
+          transform: translate(-50%, -75%);
+  width: auto; }
   @media screen and (max-width: 1023px) {
     .cruises__image-container source,
     .cruises__image-container img {
-      top: 40%;
-      -webkit-transform: translate(-50%, -40%);
-              transform: translate(-50%, -40%); } }
+      top: 0;
+      -webkit-transform: translate(-50%, 0);
+              transform: translate(-50%, 0); } }
 
 .trip {
   -webkit-box-align: center;
